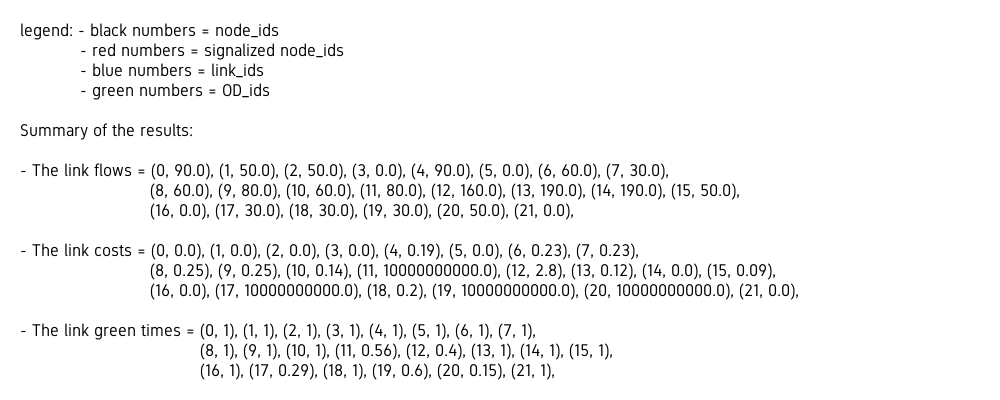
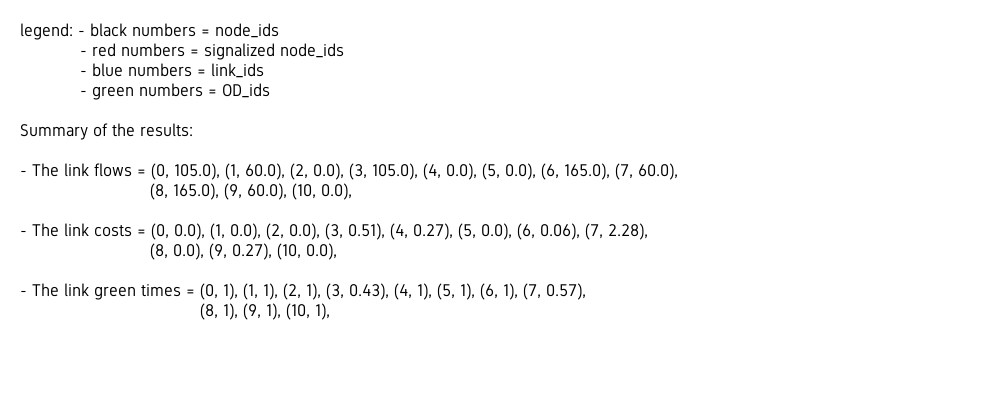
added some plots

Changed region(s): [[0.031, 0.39, 0.806, 0.96]]

diff --git a/ownCode/main.py b/ownCode/main.py
@@ -23,35 +23,35 @@ def main():
         #two cost functions at the moment
         # 'bpr' to use the bpr cost function
         # 'WebsterTwoTerm' to use the webster two term delay cost function
-    methodCost = 'WebsterTwoTerm'
+    methodCost = 'bpr'
 
         #two green time policies
         # 'equisaturation' 
         # 'P0'
-    methodGreen = 'P0'
+    methodGreen = 'equisaturation'
 
     # Chose your network type 
         # complex
         # merge
         # simple
-    network_type = 'complex'
+    network_type = 'merge'
 
     # Every element of this list is a tuple (x,y) with the coordinates of an origin or destination
     # 
-    O_or_D = [(10,35),(30,15),(50,35),(90,35)] #this one is saved for the complex network
-    #O_or_D = [(0,30),(0,0),(35,30)] #this one is saved for the merge network
+    #O_or_D = [(10,35),(30,15),(50,35),(90,35)] #this one is saved for the complex network
+    O_or_D = [(0,30),(0,0),(35,30)] #this one is saved for the merge network
     #O_or_D = [(0,30),(35,30)] #this one is saved for the simple network
 
     # This is a list of tuples (x,y,z) with x the origin, y the destination and z the flow (after relabeling)
     # X and Y = the location of the element in the O_or_D list 
     #
-    OD_flow = [(0,3,90),(1,3,50),(2,3,50)] #this one is saved for the complex network
-    #OD_flow = [(0,2,90),(1,2,60)] #this one is saved for the merge network
+    #OD_flow = [(0,3,90),(1,3,50),(2,3,50)] #this one is saved for the complex network
+    OD_flow = [(0,2,105),(1,2,60)] #this one is saved for the merge network
     #OD_flow = [(0,1,120)] #this one is saved for the merge network
 
     # Signalized nodes id (after relabeling!!)
-    signalized_nodes = [10,11] #complex
-    #signalized_nodes = [4] #merge
+    #signalized_nodes = [10,11] #complex
+    signalized_nodes = [4] #merge
     #signalized_nodes = [3] #simple
 
     # show the plot in browser or make a summary
